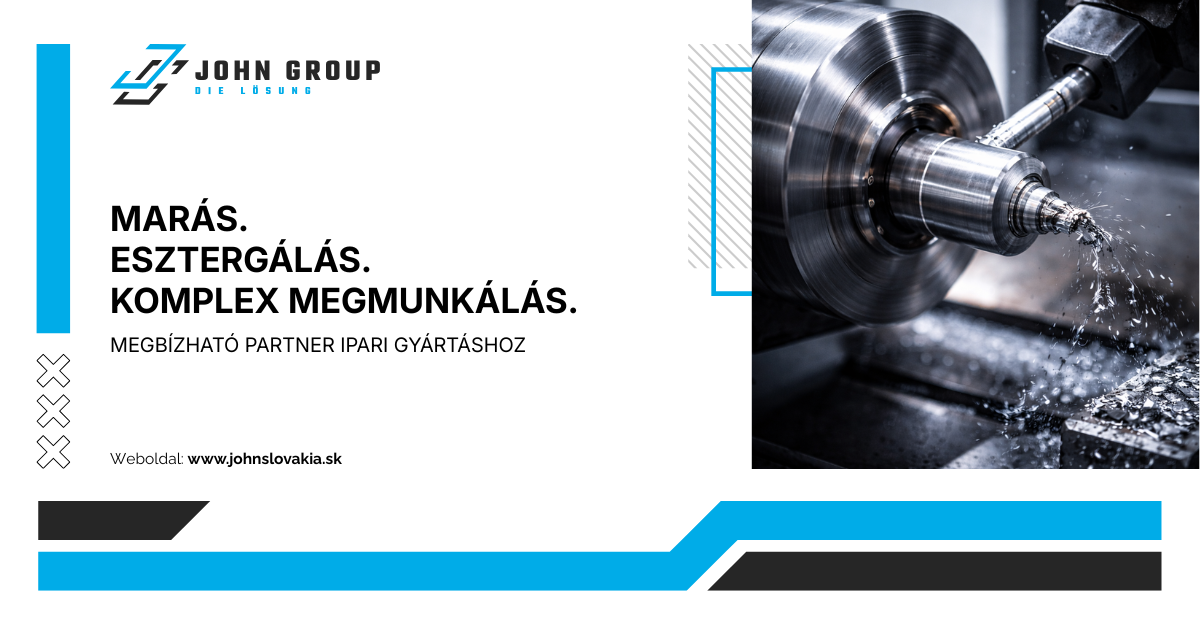
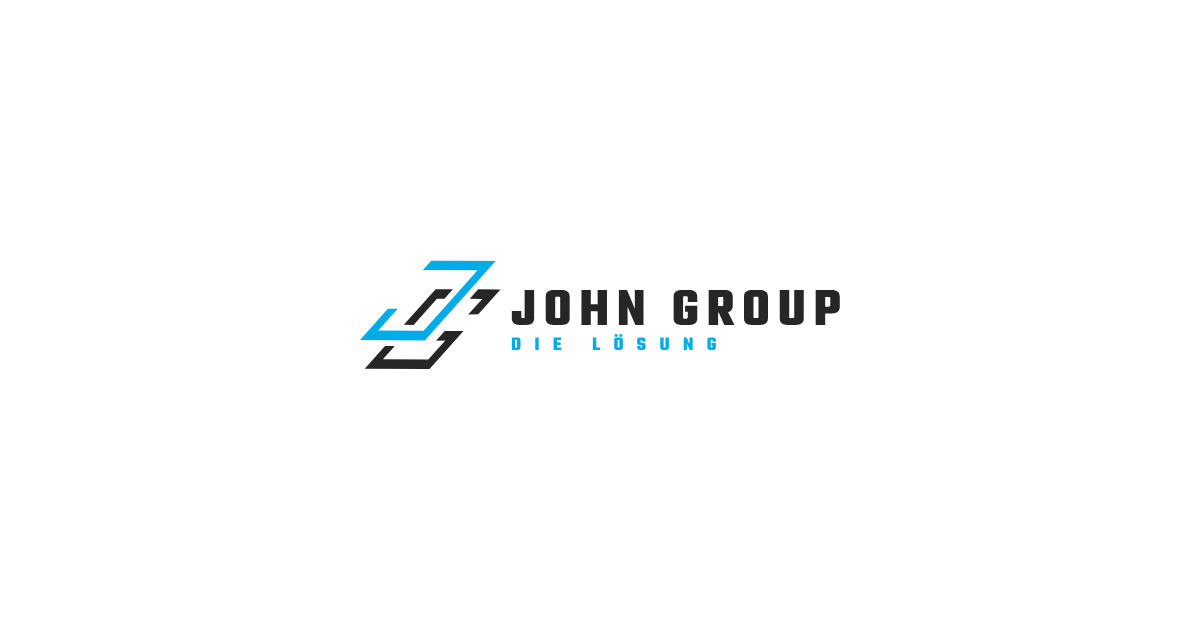
Interactive 3D hero model + legal page white bar fix + new OG image
- Replace hero image with interactive <model-viewer> 3D part (auto-rotate, camera controls, desktop only via existing display:none)
- Compress hero.glb 40MB → 2.32MB (gltf-transform: Draco mesh + WebP textures)
- Light-steel PBR material applied at runtime (js/hero-model.js)
- Fix white bar above header on all 9 legal subpages (background-line bg → #162734)
- Replace OG image with branded JOHN GROUP logo (1200x630) + cache-bust ?v=2

diff --git a/js/hero-model.js b/js/hero-model.js
@@ -1,0 +1,24 @@
+(function () {
+  const model = document.getElementById('hero-model');
+  if (!model) return;
+
+  const BASE_COLOR = [0.85, 0.88, 0.92, 1.0];
+  const METALNESS = 0.75;
+  const ROUGHNESS = 0.45;
+
+  model.addEventListener('load', function () {
+    try {
+      const materials = model.model && model.model.materials;
+      if (!materials) return;
+      materials.forEach(function (m) {
+        if (m.pbrMetallicRoughness) {
+          m.pbrMetallicRoughness.setBaseColorFactor(BASE_COLOR);
+          m.pbrMetallicRoughness.setMetallicFactor(METALNESS);
+          m.pbrMetallicRoughness.setRoughnessFactor(ROUGHNESS);
+        }
+      });
+    } catch (e) {
+      console.warn('hero-model: material update failed', e);
+    }
+  });
+})();

diff --git a/index.html b/index.html
@@ -6,10 +6,10 @@
   <meta content="CNC marás, esztergálás és komplex fémmegmunkálás rövid határidővel. Megbízható partner ipari gyártási feladatokhoz, rugalmas kapacitással." name="description">
   <meta content="John Group | CNC marás, esztergálás és komplex megmunkálás" property="og:title">
   <meta content="CNC marás, esztergálás és komplex fémmegmunkálás rövid határidővel. Megbízható partner ipari gyártási feladatokhoz, rugalmas kapacitással." property="og:description">
-  <meta content="https://johngroup.vercel.app/images/johngroup_opengraph.png" property="og:image">
+  <meta content="https://johngroup.vercel.app/images/johngroup_opengraph.png?v=2" property="og:image">
   <meta content="John Group | CNC marás, esztergálás és komplex megmunkálás" property="twitter:title">
   <meta content="CNC marás, esztergálás és komplex fémmegmunkálás rövid határidővel. Megbízható partner ipari gyártási feladatokhoz, rugalmas kapacitással." property="twitter:description">
-  <meta content="https://johngroup.vercel.app/images/johngroup_opengraph.png" property="twitter:image">
+  <meta content="https://johngroup.vercel.app/images/johngroup_opengraph.png?v=2" property="twitter:image">
   <meta property="og:type" content="website">
   <meta content="summary_large_image" name="twitter:card">
   <meta content="width=device-width, initial-scale=1" name="viewport">
@@ -23,7 +23,7 @@
     "alternateName": "John Group",
     "url": "https://johngroup.vercel.app/",
     "logo": "https://johngroup.vercel.app/images/john_group_white_logo.svg",
-    "image": "https://johngroup.vercel.app/images/johngroup_opengraph.png",
+    "image": "https://johngroup.vercel.app/images/johngroup_opengraph.png?v=2",
     "description": "CNC marás, esztergálás és komplex fémmegmunkálás rövid határidővel. Megbízható partner ipari gyártási feladatokhoz, rugalmas kapacitással.",
     "foundingDate": "2012",
     "address": {
@@ -64,9 +64,22 @@
   <link rel="icon" type="image/png" sizes="192x192" href="images/icon-192.png">
   <link rel="icon" type="image/png" sizes="512x512" href="images/icon-512.png">
   <link rel="manifest" href="/manifest.webmanifest">
+  <script type="module" src="https://cdn.jsdelivr.net/npm/@google/model-viewer@3.5.0/dist/model-viewer.min.js"></script>
   <style>
   html, body { background-color: #162734; }
   .background-line { background-color: #f2f5fb; }
+  model-viewer.hero-image {
+    width: 100%;
+    height: 400px;
+    max-height: 400px;
+    background: transparent;
+    --poster-color: transparent;
+    --progress-bar-color: #00ace8;
+    --progress-bar-height: 2px;
+    --progress-mask: transparent;
+    outline: none;
+  }
+  @media (min-width: 992px) { model-viewer.hero-image { height: 500px; max-height: 600px; } }
   * {
   -webkit-font-smoothing: antialiased;
   -moz-osx-font-smoothing: grayscale;
@@ -223,7 +236,7 @@
               </div>
             </div>
           </div>
-          <div class="hero-image-wrap"><img src="images/23370-1.jpg" loading="eager" sizes="(max-width: 767px) 100vw, (max-width: 991px) 727.9921875px, 939.9921875px" srcset="images/23370-1-p-500.jpg 500w, images/23370-1-p-800.jpg 800w, images/23370-1-p-1080.jpg 1080w, images/23370-1.jpg 1500w" alt="" class="hero-image"><img src="images/vector-03.svg" loading="eager" alt="Vector" class="hero-decoration-one"></div>
+          <div class="hero-image-wrap"><model-viewer id="hero-model" class="hero-image" src="hero.glb?v=2" alt="CNC megmunkált alkatrész — interaktív 3D modell" auto-rotate auto-rotate-delay="0" rotation-per-second="20deg" camera-controls touch-action="pan-y" disable-zoom interaction-prompt="none" shadow-intensity="0.7" shadow-softness="0.9" exposure="1.4" environment-image="neutral" camera-orbit="35deg 70deg auto" min-camera-orbit="auto 40deg auto" max-camera-orbit="auto 120deg auto" loading="lazy" reveal="auto"></model-viewer><img src="images/vector-03.svg" loading="eager" alt="Vector" class="hero-decoration-one"></div>
         </div>
       </div>
     </section>
@@ -416,5 +429,6 @@
   <script src="/js/lang-switcher.js?v=2" defer></script>
   <script src="/js/sticky-cta.js?v=2" defer></script>
   <script src="/js/cookie-banner.js?v=2" defer></script>
+  <script src="/js/hero-model.js?v=1" defer></script>
 </body>
 </html>

diff --git a/de/index.html b/de/index.html
@@ -6,10 +6,10 @@
   <meta content="CNC-Fräsen, Drehen und komplexe Metallbearbeitung mit kurzen Lieferzeiten. Zuverlässiger Partner für industrielle Fertigung mit flexibler Kapazität." name="description">
   <meta content="John Group | CNC-Fräsen, Drehen und komplexe Bearbeitung" property="og:title">
   <meta content="CNC-Fräsen, Drehen und komplexe Metallbearbeitung mit kurzen Lieferzeiten. Zuverlässiger Partner für industrielle Fertigung mit flexibler Kapazität." property="og:description">
-  <meta content="https://johngroup.vercel.app/images/johngroup_opengraph.png" property="og:image">
+  <meta content="https://johngroup.vercel.app/images/johngroup_opengraph.png?v=2" property="og:image">
   <meta content="John Group | CNC-Fräsen, Drehen und komplexe Bearbeitung" property="twitter:title">
   <meta content="CNC-Fräsen, Drehen und komplexe Metallbearbeitung mit kurzen Lieferzeiten. Zuverlässiger Partner für industrielle Fertigung mit flexibler Kapazität." property="twitter:description">
-  <meta content="https://johngroup.vercel.app/images/johngroup_opengraph.png" property="twitter:image">
+  <meta content="https://johngroup.vercel.app/images/johngroup_opengraph.png?v=2" property="twitter:image">
   <meta property="og:type" content="website">
   <meta content="summary_large_image" name="twitter:card">
   <meta content="width=device-width, initial-scale=1" name="viewport">
@@ -23,7 +23,7 @@
     "alternateName": "John Group",
     "url": "https://johngroup.vercel.app/de/",
     "logo": "https://johngroup.vercel.app/images/john_group_white_logo.svg",
-    "image": "https://johngroup.vercel.app/images/johngroup_opengraph.png",
+    "image": "https://johngroup.vercel.app/images/johngroup_opengraph.png?v=2",
     "description": "CNC-Fräsen, Drehen und komplexe Metallbearbeitung mit kurzen Lieferzeiten. Zuverlässiger Partner für industrielle Fertigung mit flexibler Kapazität.",
     "foundingDate": "2012",
     "address": {

diff --git a/en/index.html b/en/index.html
@@ -6,10 +6,10 @@
   <meta content="CNC milling, turning and complex metal machining with short lead times. A reliable partner for industrial manufacturing with flexible capacity." name="description">
   <meta content="John Group | CNC milling, turning and complex machining" property="og:title">
   <meta content="CNC milling, turning and complex metal machining with short lead times. A reliable partner for industrial manufacturing with flexible capacity." property="og:description">
-  <meta content="https://johngroup.vercel.app/images/johngroup_opengraph.png" property="og:image">
+  <meta content="https://johngroup.vercel.app/images/johngroup_opengraph.png?v=2" property="og:image">
   <meta content="John Group | CNC milling, turning and complex machining" property="twitter:title">
   <meta content="CNC milling, turning and complex metal machining with short lead times. A reliable partner for industrial manufacturing with flexible capacity." property="twitter:description">
-  <meta content="https://johngroup.vercel.app/images/johngroup_opengraph.png" property="twitter:image">
+  <meta content="https://johngroup.vercel.app/images/johngroup_opengraph.png?v=2" property="twitter:image">
   <meta property="og:type" content="website">
   <meta content="summary_large_image" name="twitter:card">
   <meta content="width=device-width, initial-scale=1" name="viewport">
@@ -23,7 +23,7 @@
     "alternateName": "John Group",
     "url": "https://johngroup.vercel.app/en/",
     "logo": "https://johngroup.vercel.app/images/john_group_white_logo.svg",
-    "image": "https://johngroup.vercel.app/images/johngroup_opengraph.png",
+    "image": "https://johngroup.vercel.app/images/johngroup_opengraph.png?v=2",
     "description": "CNC milling, turning and complex metal machining with short lead times. A reliable partner for industrial manufacturing with flexible capacity.",
     "foundingDate": "2012",
     "address": {

diff --git a/cookie.html b/cookie.html
@@ -19,7 +19,7 @@
     "alternateName": "John Group",
     "url": "https://johngroup.vercel.app/",
     "logo": "https://johngroup.vercel.app/images/john_group_white_logo.svg",
-    "image": "https://johngroup.vercel.app/images/johngroup_opengraph.png",
+    "image": "https://johngroup.vercel.app/images/johngroup_opengraph.png?v=2",
     "description": "CNC marás, esztergálás és komplex fémmegmunkálás rövid határidővel. Megbízható partner ipari gyártási feladatokhoz, rugalmas kapacitással.",
     "foundingDate": "2012",
     "address": {
@@ -61,7 +61,7 @@
   <link rel="manifest" href="/manifest.webmanifest">
   <style>
   html, body { background-color: #162734; }
-  .background-line { background-color: #f2f5fb; }
+  .background-line { background-color: #162734; }
   * {
     -webkit-font-smoothing: antialiased;
     -moz-osx-font-smoothing: grayscale;

diff --git a/de/cookie-richtlinie.html b/de/cookie-richtlinie.html
@@ -19,7 +19,7 @@
     "alternateName": "John Group",
     "url": "https://johngroup.vercel.app/de/",
     "logo": "https://johngroup.vercel.app/images/john_group_white_logo.svg",
-    "image": "https://johngroup.vercel.app/images/johngroup_opengraph.png",
+    "image": "https://johngroup.vercel.app/images/johngroup_opengraph.png?v=2",
     "description": "CNC-Fräsen, Drehen und komplexe Metallbearbeitung mit kurzen Lieferzeiten. Zuverlässiger Partner für industrielle Fertigung mit flexibler Kapazität.",
     "foundingDate": "2012",
     "address": {
@@ -57,7 +57,7 @@
   <link rel="manifest" href="/manifest.webmanifest">
   <style>
   html, body { background-color: #162734; }
-  .background-line { background-color: #f2f5fb; }
+  .background-line { background-color: #162734; }
   * { -webkit-font-smoothing: antialiased; -moz-osx-font-smoothing: grayscale; -o-font-smoothing: antialiased; }
   body { background-color: #162734; }
   .sliced-button { clip-path: polygon(0% 0%, 100% 0%, 100% 100%, 10px 100%, 0% calc(100% - 10px)); }

diff --git a/de/datenschutz.html b/de/datenschutz.html
@@ -19,7 +19,7 @@
     "alternateName": "John Group",
     "url": "https://johngroup.vercel.app/de/",
     "logo": "https://johngroup.vercel.app/images/john_group_white_logo.svg",
-    "image": "https://johngroup.vercel.app/images/johngroup_opengraph.png",
+    "image": "https://johngroup.vercel.app/images/johngroup_opengraph.png?v=2",
     "description": "CNC-Fräsen, Drehen und komplexe Metallbearbeitung mit kurzen Lieferzeiten. Zuverlässiger Partner für industrielle Fertigung mit flexibler Kapazität.",
     "foundingDate": "2012",
     "address": {
@@ -57,7 +57,7 @@
   <link rel="manifest" href="/manifest.webmanifest">
   <style>
   html, body { background-color: #162734; }
-  .background-line { background-color: #f2f5fb; }
+  .background-line { background-color: #162734; }
   * { -webkit-font-smoothing: antialiased; -moz-osx-font-smoothing: grayscale; -o-font-smoothing: antialiased; }
   body { background-color: #162734; }
   .sliced-button { clip-path: polygon(0% 0%, 100% 0%, 100% 100%, 10px 100%, 0% calc(100% - 10px)); }

diff --git a/de/impressum.html b/de/impressum.html
@@ -19,7 +19,7 @@
     "alternateName": "John Group",
     "url": "https://johngroup.vercel.app/de/",
     "logo": "https://johngroup.vercel.app/images/john_group_white_logo.svg",
-    "image": "https://johngroup.vercel.app/images/johngroup_opengraph.png",
+    "image": "https://johngroup.vercel.app/images/johngroup_opengraph.png?v=2",
     "description": "CNC-Fräsen, Drehen und komplexe Metallbearbeitung mit kurzen Lieferzeiten. Zuverlässiger Partner für industrielle Fertigung mit flexibler Kapazität.",
     "foundingDate": "2012",
     "address": {
@@ -57,7 +57,7 @@
   <link rel="manifest" href="/manifest.webmanifest">
   <style>
   html, body { background-color: #162734; }
-  .background-line { background-color: #f2f5fb; }
+  .background-line { background-color: #162734; }
   * { -webkit-font-smoothing: antialiased; -moz-osx-font-smoothing: grayscale; -o-font-smoothing: antialiased; }
   body { background-color: #162734; }
   .sliced-button { clip-path: polygon(0% 0%, 100% 0%, 100% 100%, 10px 100%, 0% calc(100% - 10px)); }

diff --git a/en/cookie-policy.html b/en/cookie-policy.html
@@ -19,7 +19,7 @@
     "alternateName": "John Group",
     "url": "https://johngroup.vercel.app/en/",
     "logo": "https://johngroup.vercel.app/images/john_group_white_logo.svg",
-    "image": "https://johngroup.vercel.app/images/johngroup_opengraph.png",
+    "image": "https://johngroup.vercel.app/images/johngroup_opengraph.png?v=2",
     "description": "CNC milling, turning and complex metal machining with short lead times. A reliable partner for industrial manufacturing with flexible capacity.",
     "foundingDate": "2012",
     "address": {
@@ -57,7 +57,7 @@
   <link rel="manifest" href="/manifest.webmanifest">
   <style>
   html, body { background-color: #162734; }
-  .background-line { background-color: #f2f5fb; }
+  .background-line { background-color: #162734; }
   * { -webkit-font-smoothing: antialiased; -moz-osx-font-smoothing: grayscale; -o-font-smoothing: antialiased; }
   body { background-color: #162734; }
   .sliced-button { clip-path: polygon(0% 0%, 100% 0%, 100% 100%, 10px 100%, 0% calc(100% - 10px)); }

diff --git a/en/imprint.html b/en/imprint.html
@@ -19,7 +19,7 @@
     "alternateName": "John Group",
     "url": "https://johngroup.vercel.app/en/",
     "logo": "https://johngroup.vercel.app/images/john_group_white_logo.svg",
-    "image": "https://johngroup.vercel.app/images/johngroup_opengraph.png",
+    "image": "https://johngroup.vercel.app/images/johngroup_opengraph.png?v=2",
     "description": "CNC milling, turning and complex metal machining with short lead times. A reliable partner for industrial manufacturing with flexible capacity.",
     "foundingDate": "2012",
     "address": {
@@ -57,7 +57,7 @@
   <link rel="manifest" href="/manifest.webmanifest">
   <style>
   html, body { background-color: #162734; }
-  .background-line { background-color: #f2f5fb; }
+  .background-line { background-color: #162734; }
   * { -webkit-font-smoothing: antialiased; -moz-osx-font-smoothing: grayscale; -o-font-smoothing: antialiased; }
   body { background-color: #162734; }
   .sliced-button { clip-path: polygon(0% 0%, 100% 0%, 100% 100%, 10px 100%, 0% calc(100% - 10px)); }

diff --git a/en/privacy-policy.html b/en/privacy-policy.html
@@ -19,7 +19,7 @@
     "alternateName": "John Group",
     "url": "https://johngroup.vercel.app/en/",
     "logo": "https://johngroup.vercel.app/images/john_group_white_logo.svg",
-    "image": "https://johngroup.vercel.app/images/johngroup_opengraph.png",
+    "image": "https://johngroup.vercel.app/images/johngroup_opengraph.png?v=2",
     "description": "CNC milling, turning and complex metal machining with short lead times. A reliable partner for industrial manufacturing with flexible capacity.",
     "foundingDate": "2012",
     "address": {
@@ -57,7 +57,7 @@
   <link rel="manifest" href="/manifest.webmanifest">
   <style>
   html, body { background-color: #162734; }
-  .background-line { background-color: #f2f5fb; }
+  .background-line { background-color: #162734; }
   * { -webkit-font-smoothing: antialiased; -moz-osx-font-smoothing: grayscale; -o-font-smoothing: antialiased; }
   body { background-color: #162734; }
   .sliced-button { clip-path: polygon(0% 0%, 100% 0%, 100% 100%, 10px 100%, 0% calc(100% - 10px)); }

diff --git a/impresszum.html b/impresszum.html
@@ -19,7 +19,7 @@
     "alternateName": "John Group",
     "url": "https://johngroup.vercel.app/",
     "logo": "https://johngroup.vercel.app/images/john_group_white_logo.svg",
-    "image": "https://johngroup.vercel.app/images/johngroup_opengraph.png",
+    "image": "https://johngroup.vercel.app/images/johngroup_opengraph.png?v=2",
     "description": "CNC marás, esztergálás és komplex fémmegmunkálás rövid határidővel. Megbízható partner ipari gyártási feladatokhoz, rugalmas kapacitással.",
     "foundingDate": "2012",
     "address": {
@@ -61,7 +61,7 @@
   <link rel="manifest" href="/manifest.webmanifest">
   <style>
   html, body { background-color: #162734; }
-  .background-line { background-color: #f2f5fb; }
+  .background-line { background-color: #162734; }
   * {
     -webkit-font-smoothing: antialiased;
     -moz-osx-font-smoothing: grayscale;